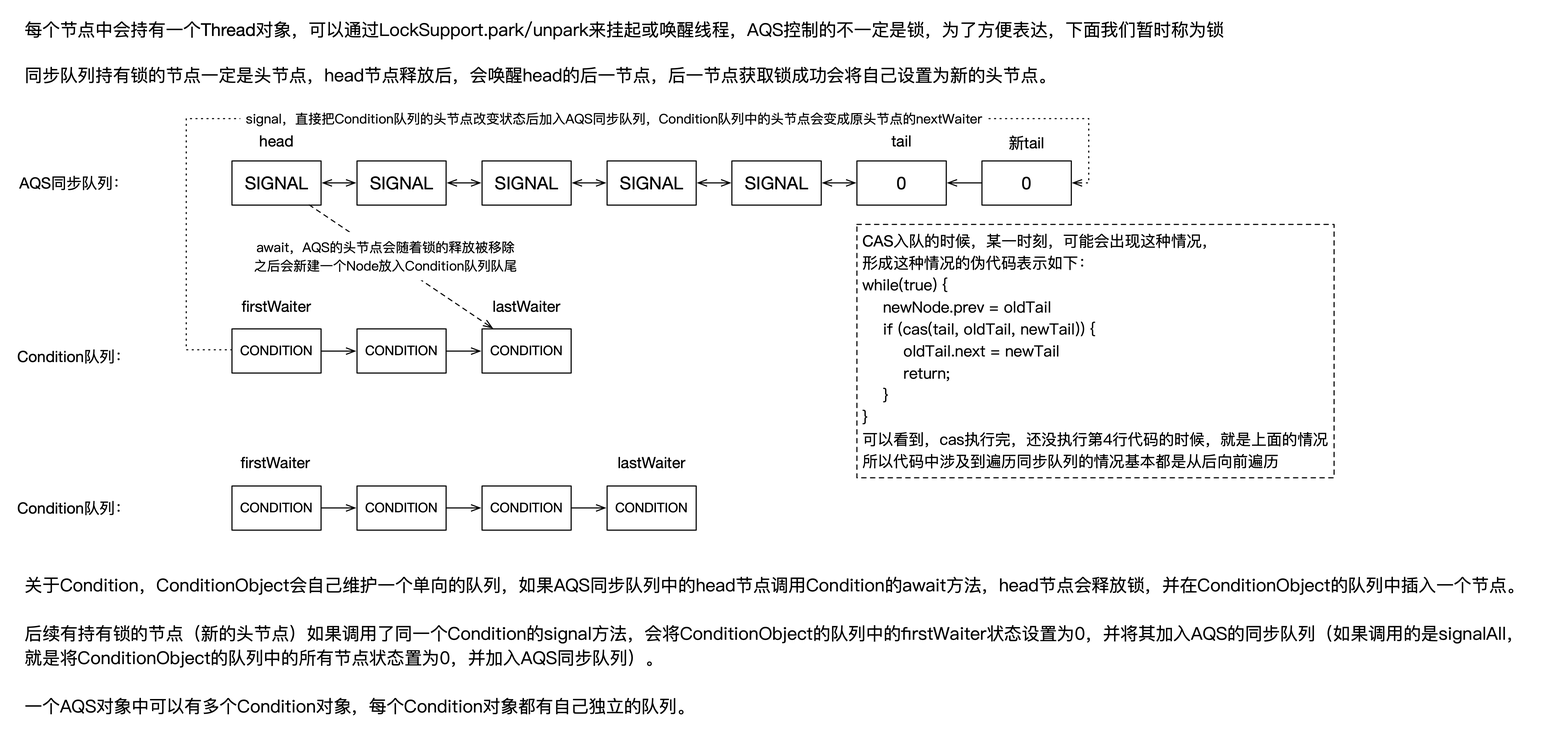
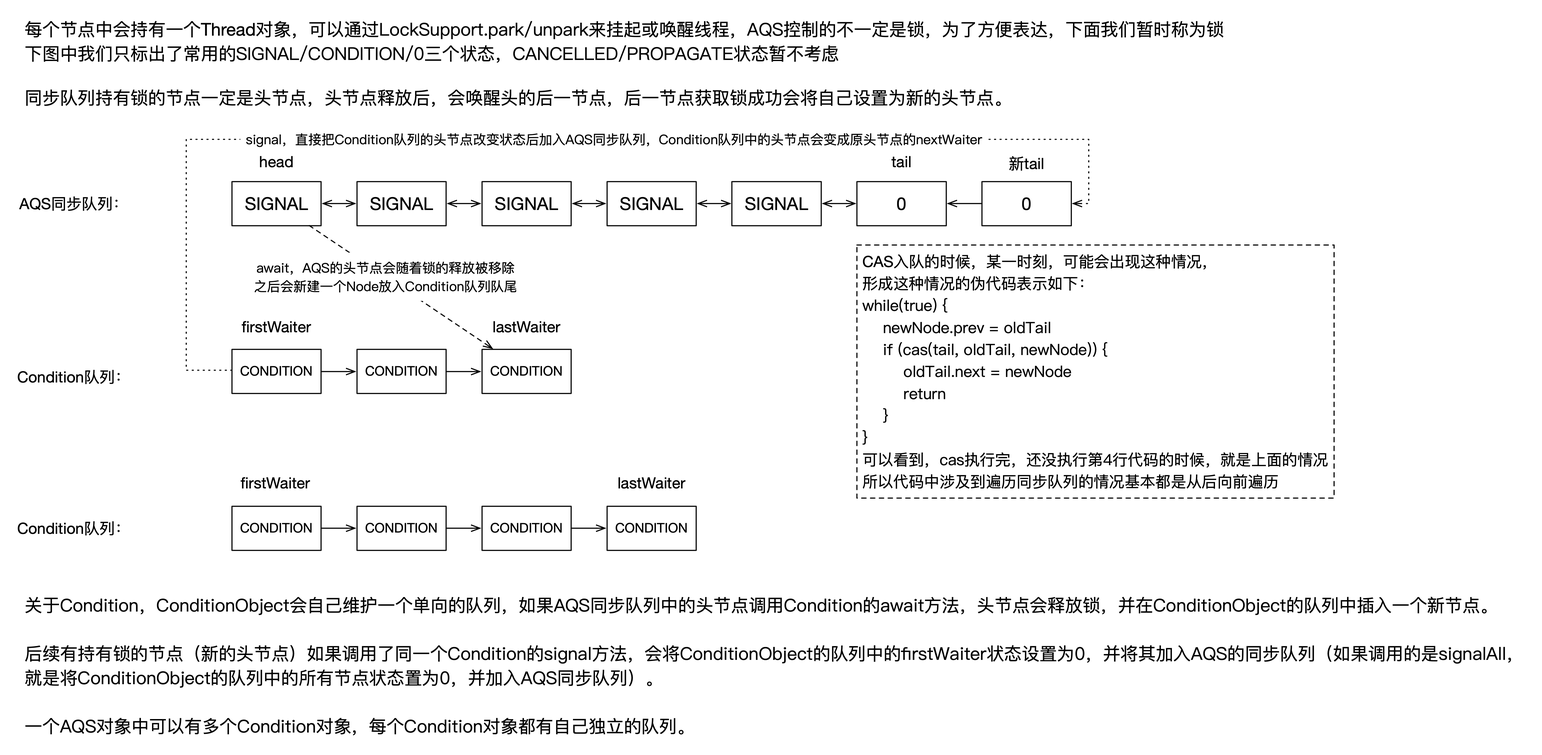
Site updated: 2018-11-01 10:57:12

diff --git a/2018/06/04/JUC中的一些锁以及核心AQS类/index.html b/2018/06/04/JUC中的一些锁以及核心AQS类/index.html
@@ -108,20 +108,20 @@
 
 
 
-  <meta name="description" content="这篇文章主要是从JUC中我们常用的ReentrantLock出发，通过研究ReentrantLock的实现方式，引出了其他一系列的JUC锁以及核心的AQS同步器，本文篇幅会比较长，因为代码细节比较多，后续我会试着画一个总的图来说明整体原理。     文章还在更新中…">
+  <meta name="description" content="这篇文章主要是从JUC中我们常用的ReentrantLock出发，通过研究ReentrantLock的实现方式，引出了其他一系列的JUC锁以及核心的AQS同步器，本文篇幅会比较长，因为代码细节比较多，如果只想简单了解AQS的原理，可以直接跳到AQS的核心原理图。     文章还在更新中…">
 <meta name="keywords" content="Java,并发编程">
 <meta property="og:type" content="article">
 <meta property="og:title" content="JUC中的一些锁以及核心AQS类">
 <meta property="og:url" content="http://yoursite.com/2018/06/04/JUC中的一些锁以及核心AQS类/index.html">
 <meta property="og:site_name" content="d8gmyself">
-<meta property="og:description" content="这篇文章主要是从JUC中我们常用的ReentrantLock出发，通过研究ReentrantLock的实现方式，引出了其他一系列的JUC锁以及核心的AQS同步器，本文篇幅会比较长，因为代码细节比较多，后续我会试着画一个总的图来说明整体原理。     文章还在更新中…">
+<meta property="og:description" content="这篇文章主要是从JUC中我们常用的ReentrantLock出发，通过研究ReentrantLock的实现方式，引出了其他一系列的JUC锁以及核心的AQS同步器，本文篇幅会比较长，因为代码细节比较多，如果只想简单了解AQS的原理，可以直接跳到AQS的核心原理图。     文章还在更新中…">
 <meta property="og:locale" content="zh-CN">
-<meta property="og:image" content="http://yoursite.com/2018/06/04/JUC中的一些锁以及核心AQS类/001.png">
-<meta property="og:updated_time" content="2018-10-31T13:39:50.072Z">
+<meta property="og:image" content="http://yoursite.com/2018/06/04/JUC中的一些锁以及核心AQS类/001.jpg">
+<meta property="og:updated_time" content="2018-11-01T02:56:21.143Z">
 <meta name="twitter:card" content="summary">
 <meta name="twitter:title" content="JUC中的一些锁以及核心AQS类">
-<meta name="twitter:description" content="这篇文章主要是从JUC中我们常用的ReentrantLock出发，通过研究ReentrantLock的实现方式，引出了其他一系列的JUC锁以及核心的AQS同步器，本文篇幅会比较长，因为代码细节比较多，后续我会试着画一个总的图来说明整体原理。     文章还在更新中…">
-<meta name="twitter:image" content="http://yoursite.com/2018/06/04/JUC中的一些锁以及核心AQS类/001.png">
+<meta name="twitter:description" content="这篇文章主要是从JUC中我们常用的ReentrantLock出发，通过研究ReentrantLock的实现方式，引出了其他一系列的JUC锁以及核心的AQS同步器，本文篇幅会比较长，因为代码细节比较多，如果只想简单了解AQS的原理，可以直接跳到AQS的核心原理图。     文章还在更新中…">
+<meta name="twitter:image" content="http://yoursite.com/2018/06/04/JUC中的一些锁以及核心AQS类/001.jpg">
 
 
 
@@ -389,7 +389,7 @@
                 
                   <span class="post-meta-item-text">更新于</span>
                 
-                <time title="修改时间：2018-10-31 21:39:50" itemprop="dateModified" datetime="2018-10-31T21:39:50+08:00">2018-10-31</time>
+                <time title="修改时间：2018-11-01 10:56:21" itemprop="dateModified" datetime="2018-11-01T10:56:21+08:00">2018-11-01</time>
               
             
           </span>
@@ -448,7 +448,7 @@
       
 
       
-        <p>这篇文章主要是从JUC中我们常用的<code>ReentrantLock</code>出发，通过研究<code>ReentrantLock</code>的实现方式，引出了其他一系列的JUC锁以及核心的<strong>AQS</strong>同步器，本文篇幅会比较长，因为代码细节比较多，后续我会试着画一个总的图来说明整体原理。    </p>
+        <p>这篇文章主要是从JUC中我们常用的<code>ReentrantLock</code>出发，通过研究<code>ReentrantLock</code>的实现方式，引出了其他一系列的JUC锁以及核心的<strong>AQS</strong>同步器，本文篇幅会比较长，因为代码细节比较多，如果只想简单了解<strong>AQS</strong>的原理，可以直接跳到<a href="#2-5、AQS的核心原理图"><strong>AQS的核心原理图</strong></a>。    </p>
 <p>文章还在更新中…<br><a id="more"></a><br>前段时间认真研究了一下JUC中的一些锁以及核心的AQS类，在此做个自我总结（主要是为了加深自己的印象吧），写的可能不是特别好。</p>
 <h1 id="1、ReentrantLock"><a href="#1、ReentrantLock" class="headerlink" title="1、ReentrantLock"></a>1、ReentrantLock</h1><p>大部分人接触到的第一个juc中的锁，可能就是这个类了，我们可以通过try-finally语句块调用其lock和unlock来实现加锁和释放锁。    </p>
 <h2 id="1-1、ReentrantLock实现"><a href="#1-1、ReentrantLock实现" class="headerlink" title="1.1、ReentrantLock实现"></a>1.1、ReentrantLock实现</h2><p>查看<code>ReentrantLock</code>的源代码，会发现<code>ReentrantLock</code>的代码很少，核心代码是其一个静态内部抽象类<code>Sync</code>（juc中大部分锁都有一个静态内部抽象类Sync），提供了两个静态内部实现类，<code>FairSync</code>和<code>NonfairSync</code>，分别用于实现公平锁和非公平锁，ReentrantLock的精简代码如下（主要方法，先不考虑序列化）：    </p>
@@ -463,7 +463,7 @@
 <p>首先，我们需要了解AbstractQueuedSynchronizer中的一些基本类和字段。    </p>
 <h2 id="2-1、Node类"><a href="#2-1、Node类" class="headerlink" title="2.1、Node类"></a>2.1、Node类</h2><p><strong>Node</strong>类可以说是<code>AbstractQueuedSynchronizer</code>中的核心类，<code>AbstractQueuedSynchronizer</code>维护了一个FIFO的等待队列，<strong>Node</strong>类就是这个队列的节点，下面是<strong>Node</strong>类中的一些核心概念（数据结构）：    </p>
 <figure class="highlight java"><table><tr><td class="gutter"><pre><span class="line">1</span><br><span class="line">2</span><br><span class="line">3</span><br><span class="line">4</span><br><span class="line">5</span><br><span class="line">6</span><br><span class="line">7</span><br><span class="line">8</span><br><span class="line">9</span><br><span class="line">10</span><br><span class="line">11</span><br><span class="line">12</span><br><span class="line">13</span><br><span class="line">14</span><br><span class="line">15</span><br><span class="line">16</span><br><span class="line">17</span><br><span class="line">18</span><br><span class="line">19</span><br><span class="line">20</span><br><span class="line">21</span><br><span class="line">22</span><br><span class="line">23</span><br><span class="line">24</span><br><span class="line">25</span><br><span class="line">26</span><br><span class="line">27</span><br><span class="line">28</span><br><span class="line">29</span><br><span class="line">30</span><br><span class="line">31</span><br><span class="line">32</span><br><span class="line">33</span><br><span class="line">34</span><br><span class="line">35</span><br><span class="line">36</span><br><span class="line">37</span><br><span class="line">38</span><br><span class="line">39</span><br><span class="line">40</span><br><span class="line">41</span><br><span class="line">42</span><br><span class="line">43</span><br><span class="line">44</span><br><span class="line">45</span><br><span class="line">46</span><br><span class="line">47</span><br><span class="line">48</span><br><span class="line">49</span><br></pre></td><td class="code"><pre><span class="line"><span class="keyword">static</span> <span class="keyword">final</span> <span class="class"><span class="keyword">class</span> <span class="title">Node</span> </span>&#123;</span><br><span class="line">    <span class="comment">/** </span></span><br><span class="line"><span class="comment">     * 共享模式</span></span><br><span class="line"><span class="comment">     */</span></span><br><span class="line">    <span class="keyword">static</span> <span class="keyword">final</span> Node SHARED = <span class="keyword">new</span> Node();</span><br><span class="line">    <span class="comment">/** </span></span><br><span class="line"><span class="comment">     * 独占模式</span></span><br><span class="line"><span class="comment">     */</span></span><br><span class="line">    <span class="keyword">static</span> <span class="keyword">final</span> Node EXCLUSIVE = <span class="keyword">null</span>;</span><br><span class="line"></span><br><span class="line">    <span class="comment">/** </span></span><br><span class="line"><span class="comment">     * 表示节点持有的Thread已经取消执行</span></span><br><span class="line"><span class="comment">     */</span></span><br><span class="line">    <span class="keyword">static</span> <span class="keyword">final</span> <span class="keyword">int</span> CANCELLED =  <span class="number">1</span>;</span><br><span class="line">    <span class="comment">/** </span></span><br><span class="line"><span class="comment">     * 表示节点需要unparking(唤醒）其它节点</span></span><br><span class="line"><span class="comment">     */</span></span><br><span class="line">    <span class="keyword">static</span> <span class="keyword">final</span> <span class="keyword">int</span> SIGNAL    = -<span class="number">1</span>;</span><br><span class="line">    <span class="comment">/** </span></span><br><span class="line"><span class="comment">     * 表示节点持有的Thread在等待某个Condition</span></span><br><span class="line"><span class="comment">     */</span></span><br><span class="line">    <span class="keyword">static</span> <span class="keyword">final</span> <span class="keyword">int</span> CONDITION = -<span class="number">2</span>;</span><br><span class="line">    <span class="comment">/**</span></span><br><span class="line"><span class="comment">     * 表示下一个acquireShared操作无条件传递</span></span><br><span class="line"><span class="comment">     */</span></span><br><span class="line">    <span class="keyword">static</span> <span class="keyword">final</span> <span class="keyword">int</span> PROPAGATE = -<span class="number">3</span>;</span><br><span class="line"></span><br><span class="line">    <span class="comment">/**</span></span><br><span class="line"><span class="comment">     * 节点状态</span></span><br><span class="line"><span class="comment">     */</span></span><br><span class="line">    <span class="keyword">volatile</span> <span class="keyword">int</span> waitStatus;</span><br><span class="line">    <span class="comment">/**</span></span><br><span class="line"><span class="comment">     * 上一节点</span></span><br><span class="line"><span class="comment">     */</span></span><br><span class="line">    <span class="keyword">volatile</span> Node prev;</span><br><span class="line">    <span class="comment">/**</span></span><br><span class="line"><span class="comment">     * 下一节点</span></span><br><span class="line"><span class="comment">     */</span></span><br><span class="line">    <span class="keyword">volatile</span> Node next;</span><br><span class="line">    <span class="comment">/**</span></span><br><span class="line"><span class="comment">     * 节点持有的线程</span></span><br><span class="line"><span class="comment">     */</span></span><br><span class="line">    <span class="keyword">volatile</span> Thread thread;</span><br><span class="line">    <span class="comment">/**</span></span><br><span class="line"><span class="comment">     * 1、用于串连Condition状态节点，形成单向链表，在ConditionObject中有用</span></span><br><span class="line"><span class="comment">     * 2、指向SHARED，表示当前节点是共享节点</span></span><br><span class="line"><span class="comment">     */</span></span><br><span class="line">    Node nextWaiter;</span><br><span class="line">&#125;</span><br></pre></td></tr></table></figure>
-<p>上面代码中，有很大一部分是定义常量，组成<strong>Node</strong>数据结构的只有<code>waitStatue</code>、<code>prev</code>、<code>next</code>、<code>thread</code>、<code>nextWaiter</code>。    </p>
+<p>上面代码中，有很大一部分是定义常量，组成<strong>Node</strong>数据结构的只有<code>waitStatus</code>、<code>prev</code>、<code>next</code>、<code>thread</code>、<code>nextWaiter</code>，<code>waitStatus</code>用来表示节点当前状态，<code>prev</code>、<code>next</code>用来构成<strong>AQS</strong>同步队列，<strong>AQS</strong>同步队列是一个<strong>双向链表</strong>，<code>nextWaiter</code>有两个作用，一个是指向<code>SHARED</code>，表示当前节点是共享模式，还有一个作用就是构成<strong>Condition</strong>队列，<strong>Condition</strong>队列是一个<strong>单向链表</strong>。    </p>
 <h2 id="2-2、AbstractQueuedSynchronizer类"><a href="#2-2、AbstractQueuedSynchronizer类" class="headerlink" title="2.2、AbstractQueuedSynchronizer类"></a>2.2、AbstractQueuedSynchronizer类</h2><p><strong>AbstractQueuedSynchronizer</strong>类中的一些主要字段如下：</p>
 <figure class="highlight java"><table><tr><td class="gutter"><pre><span class="line">1</span><br><span class="line">2</span><br><span class="line">3</span><br><span class="line">4</span><br><span class="line">5</span><br><span class="line">6</span><br><span class="line">7</span><br><span class="line">8</span><br><span class="line">9</span><br><span class="line">10</span><br><span class="line">11</span><br><span class="line">12</span><br><span class="line">13</span><br><span class="line">14</span><br></pre></td><td class="code"><pre><span class="line"><span class="comment">/**</span></span><br><span class="line"><span class="comment"> * 等待队列头</span></span><br><span class="line"><span class="comment"> */</span></span><br><span class="line"><span class="keyword">private</span> <span class="keyword">transient</span> <span class="keyword">volatile</span> Node head;</span><br><span class="line"></span><br><span class="line"><span class="comment">/**</span></span><br><span class="line"><span class="comment"> * 等待队列尾</span></span><br><span class="line"><span class="comment"> */</span></span><br><span class="line"><span class="keyword">private</span> <span class="keyword">transient</span> <span class="keyword">volatile</span> Node tail;</span><br><span class="line"></span><br><span class="line"><span class="comment">/**</span></span><br><span class="line"><span class="comment"> * 同步状态</span></span><br><span class="line"><span class="comment"> */</span></span><br><span class="line"><span class="keyword">private</span> <span class="keyword">volatile</span> <span class="keyword">int</span> state;</span><br></pre></td></tr></table></figure>
 <h2 id="2-3、ConditionObject"><a href="#2-3、ConditionObject" class="headerlink" title="2.3、ConditionObject"></a>2.3、ConditionObject</h2><p><strong>Condition</strong>是一个接口，其作用类似<code>Object</code>中的<code>wait</code>/<code>notify</code>，接口定义了类似的<code>await</code>/<code>signal</code>方法。    </p>
@@ -538,7 +538,8 @@
 <h3 id="2-4-2-共享模式（SHARED）"><a href="#2-4-2-共享模式（SHARED）" class="headerlink" title="2.4.2 共享模式（SHARED）"></a>2.4.2 共享模式（SHARED）</h3><p>AQS中的共享模式，表示<strong>资源可以被多个线程共享</strong>，典型的比如JUC中的<code>ReentrantReadWriteLock</code>，多个线程可以同时持有读锁，<code>ReentrantReadWriteLock</code>的源码解析会放到后面。    </p>
 <p>共享模式主要需要实现<code>tryAcquireShared</code>/<code>tryReleaseShared</code>方法，主要机制解析如下：    </p>
 <h4 id="2-4-2-1-tryAcquireShared方法"><a href="#2-4-2-1-tryAcquireShared方法" class="headerlink" title="2.4.2.1 tryAcquireShared方法"></a>2.4.2.1 tryAcquireShared方法</h4><p>该方法需要我们自己实现，还是通过控制<code>state</code>来决定是否可以获得共享锁。    </p>
-<h2 id="2-5、AQS的核心结构图"><a href="#2-5、AQS的核心结构图" class="headerlink" title="2.5、AQS的核心结构图"></a>2.5、AQS的核心结构图</h2><p>下面是AQS的一个核心结构图，只画出了主要的流程<br><img src="/2018/06/04/JUC中的一些锁以及核心AQS类/001.png" alt="核心原理图"></p>
+<h2 id="2-5、AQS的核心原理图"><a href="#2-5、AQS的核心原理图" class="headerlink" title="2.5、AQS的核心原理图"></a>2.5、AQS的核心原理图</h2><p>下面是AQS的一个核心原理图，只画出了主要的流程，其核心思想还是一个CLH队列锁<br><img src="/2018/06/04/JUC中的一些锁以及核心AQS类/001.jpg" alt="核心原理图"><a href="001.jpg" target="_blank">点击查看大图</a>    </p>
+<p>上图中只画出了AQS的核心原理，没有体现太多的细节，比如取消的节点怎么处理，怎么通过CAS保证并发时的正确性等等，这些细节都需要去仔细阅读代码，认真思考。    </p>
 <h1 id="3、再看ReentrantLock"><a href="#3、再看ReentrantLock" class="headerlink" title="3、再看ReentrantLock"></a>3、再看ReentrantLock</h1><p>公平和非公平实现</p>
 <h1 id="4、Semaphore"><a href="#4、Semaphore" class="headerlink" title="4、Semaphore"></a>4、Semaphore</h1><p>Semaphore如何通过ASQ实现</p>
 <h1 id="5、ReentrantReadWriteLock"><a href="#5、ReentrantReadWriteLock" class="headerlink" title="5、ReentrantReadWriteLock"></a>5、ReentrantReadWriteLock</h1><p>ReentrantReadWriteLock如何通过AQS实现</p>
@@ -788,7 +789,7 @@
             
 
             
-              <div class="post-toc-content"><ol class="nav"><li class="nav-item nav-level-1"><a class="nav-link" href="#1、ReentrantLock"><span class="nav-text">1、ReentrantLock</span></a><ol class="nav-child"><li class="nav-item nav-level-2"><a class="nav-link" href="#1-1、ReentrantLock实现"><span class="nav-text">1.1、ReentrantLock实现</span></a></li></ol></li><li class="nav-item nav-level-1"><a class="nav-link" href="#2、AbstractQueuedSynchronizer（简称AQS）解析"><span class="nav-text">2、AbstractQueuedSynchronizer（简称AQS）解析</span></a><ol class="nav-child"><li class="nav-item nav-level-2"><a class="nav-link" href="#2-1、Node类"><span class="nav-text">2.1、Node类</span></a></li><li class="nav-item nav-level-2"><a class="nav-link" href="#2-2、AbstractQueuedSynchronizer类"><span class="nav-text">2.2、AbstractQueuedSynchronizer类</span></a></li><li class="nav-item nav-level-2"><a class="nav-link" href="#2-3、ConditionObject"><span class="nav-text">2.3、ConditionObject</span></a></li><li class="nav-item nav-level-2"><a class="nav-link" href="#2-4、常用方法源码解析"><span class="nav-text">2.4、常用方法源码解析</span></a><ol class="nav-child"><li class="nav-item nav-level-3"><a class="nav-link" href="#2-4-1-独占（EXCLUSIVE）模式"><span class="nav-text">2.4.1 独占（EXCLUSIVE）模式</span></a><ol class="nav-child"><li class="nav-item nav-level-4"><a class="nav-link" href="#2-4-1-1-tryAcquire方法"><span class="nav-text">2.4.1.1 tryAcquire方法</span></a></li><li class="nav-item nav-level-4"><a class="nav-link" href="#2-4-1-2-tryRelease方法"><span class="nav-text">2.4.1.2 tryRelease方法</span></a></li><li class="nav-item nav-level-4"><a class="nav-link" href="#2-4-1-3-acquire方法"><span class="nav-text">2.4.1.3 acquire方法</span></a></li><li class="nav-item nav-level-4"><a class="nav-link" href="#2-4-1-4-release方法"><span class="nav-text">2.4.1.4 release方法</span></a></li><li class="nav-item nav-level-4"><a class="nav-link" href="#2-4-1-5-响应中断的doAcquireInterruptibly以及cancelAcquire"><span class="nav-text">2.4.1.5 响应中断的doAcquireInterruptibly以及cancelAcquire</span></a></li><li class="nav-item nav-level-4"><a class="nav-link" href="#2-4-1-6-ConditionObject"><span class="nav-text">2.4.1.6 ConditionObject</span></a><ol class="nav-child"><li class="nav-item nav-level-5"><a class="nav-link" href="#2-4-1-6-1-await方法"><span class="nav-text">2.4.1.6.1 await方法</span></a></li><li class="nav-item nav-level-5"><a class="nav-link" href="#2-4-1-6-2-signal-signalAll方法"><span class="nav-text">2.4.1.6.2 signal/signalAll方法</span></a></li><li class="nav-item nav-level-5"><a class="nav-link" href="#2-4-1-6-3-含timeout的await"><span class="nav-text">2.4.1.6.3 含timeout的await</span></a></li></ol></li></ol></li><li class="nav-item nav-level-3"><a class="nav-link" href="#2-4-2-共享模式（SHARED）"><span class="nav-text">2.4.2 共享模式（SHARED）</span></a><ol class="nav-child"><li class="nav-item nav-level-4"><a class="nav-link" href="#2-4-2-1-tryAcquireShared方法"><span class="nav-text">2.4.2.1 tryAcquireShared方法</span></a></li></ol></li></ol></li><li class="nav-item nav-level-2"><a class="nav-link" href="#2-5、AQS的核心结构图"><span class="nav-text">2.5、AQS的核心结构图</span></a></li></ol></li><li class="nav-item nav-level-1"><a class="nav-link" href="#3、再看ReentrantLock"><span class="nav-text">3、再看ReentrantLock</span></a></li><li class="nav-item nav-level-1"><a class="nav-link" href="#4、Semaphore"><span class="nav-text">4、Semaphore</span></a></li><li class="nav-item nav-level-1"><a class="nav-link" href="#5、ReentrantReadWriteLock"><span class="nav-text">5、ReentrantReadWriteLock</span></a></li><li class="nav-item nav-level-1"><a class="nav-link" href="#6、一些思考（不定时更新）"><span class="nav-text">6、一些思考（不定时更新）</span></a><ol class="nav-child"><li class="nav-item nav-level-2"><a class="nav-link" href="#6-1、怎么保证lock-unlock之间的操作的线程可见性"><span class="nav-text">6.1、怎么保证lock-unlock之间的操作的线程可见性</span></a></li></ol></li><li class="nav-item nav-level-1"><a class="nav-link" href="#7、结语"><span class="nav-text">7、结语</span></a></li></ol></div>
+              <div class="post-toc-content"><ol class="nav"><li class="nav-item nav-level-1"><a class="nav-link" href="#1、ReentrantLock"><span class="nav-text">1、ReentrantLock</span></a><ol class="nav-child"><li class="nav-item nav-level-2"><a class="nav-link" href="#1-1、ReentrantLock实现"><span class="nav-text">1.1、ReentrantLock实现</span></a></li></ol></li><li class="nav-item nav-level-1"><a class="nav-link" href="#2、AbstractQueuedSynchronizer（简称AQS）解析"><span class="nav-text">2、AbstractQueuedSynchronizer（简称AQS）解析</span></a><ol class="nav-child"><li class="nav-item nav-level-2"><a class="nav-link" href="#2-1、Node类"><span class="nav-text">2.1、Node类</span></a></li><li class="nav-item nav-level-2"><a class="nav-link" href="#2-2、AbstractQueuedSynchronizer类"><span class="nav-text">2.2、AbstractQueuedSynchronizer类</span></a></li><li class="nav-item nav-level-2"><a class="nav-link" href="#2-3、ConditionObject"><span class="nav-text">2.3、ConditionObject</span></a></li><li class="nav-item nav-level-2"><a class="nav-link" href="#2-4、常用方法源码解析"><span class="nav-text">2.4、常用方法源码解析</span></a><ol class="nav-child"><li class="nav-item nav-level-3"><a class="nav-link" href="#2-4-1-独占（EXCLUSIVE）模式"><span class="nav-text">2.4.1 独占（EXCLUSIVE）模式</span></a><ol class="nav-child"><li class="nav-item nav-level-4"><a class="nav-link" href="#2-4-1-1-tryAcquire方法"><span class="nav-text">2.4.1.1 tryAcquire方法</span></a></li><li class="nav-item nav-level-4"><a class="nav-link" href="#2-4-1-2-tryRelease方法"><span class="nav-text">2.4.1.2 tryRelease方法</span></a></li><li class="nav-item nav-level-4"><a class="nav-link" href="#2-4-1-3-acquire方法"><span class="nav-text">2.4.1.3 acquire方法</span></a></li><li class="nav-item nav-level-4"><a class="nav-link" href="#2-4-1-4-release方法"><span class="nav-text">2.4.1.4 release方法</span></a></li><li class="nav-item nav-level-4"><a class="nav-link" href="#2-4-1-5-响应中断的doAcquireInterruptibly以及cancelAcquire"><span class="nav-text">2.4.1.5 响应中断的doAcquireInterruptibly以及cancelAcquire</span></a></li><li class="nav-item nav-level-4"><a class="nav-link" href="#2-4-1-6-ConditionObject"><span class="nav-text">2.4.1.6 ConditionObject</span></a><ol class="nav-child"><li class="nav-item nav-level-5"><a class="nav-link" href="#2-4-1-6-1-await方法"><span class="nav-text">2.4.1.6.1 await方法</span></a></li><li class="nav-item nav-level-5"><a class="nav-link" href="#2-4-1-6-2-signal-signalAll方法"><span class="nav-text">2.4.1.6.2 signal/signalAll方法</span></a></li><li class="nav-item nav-level-5"><a class="nav-link" href="#2-4-1-6-3-含timeout的await"><span class="nav-text">2.4.1.6.3 含timeout的await</span></a></li></ol></li></ol></li><li class="nav-item nav-level-3"><a class="nav-link" href="#2-4-2-共享模式（SHARED）"><span class="nav-text">2.4.2 共享模式（SHARED）</span></a><ol class="nav-child"><li class="nav-item nav-level-4"><a class="nav-link" href="#2-4-2-1-tryAcquireShared方法"><span class="nav-text">2.4.2.1 tryAcquireShared方法</span></a></li></ol></li></ol></li><li class="nav-item nav-level-2"><a class="nav-link" href="#2-5、AQS的核心原理图"><span class="nav-text">2.5、AQS的核心原理图</span></a></li></ol></li><li class="nav-item nav-level-1"><a class="nav-link" href="#3、再看ReentrantLock"><span class="nav-text">3、再看ReentrantLock</span></a></li><li class="nav-item nav-level-1"><a class="nav-link" href="#4、Semaphore"><span class="nav-text">4、Semaphore</span></a></li><li class="nav-item nav-level-1"><a class="nav-link" href="#5、ReentrantReadWriteLock"><span class="nav-text">5、ReentrantReadWriteLock</span></a></li><li class="nav-item nav-level-1"><a class="nav-link" href="#6、一些思考（不定时更新）"><span class="nav-text">6、一些思考（不定时更新）</span></a><ol class="nav-child"><li class="nav-item nav-level-2"><a class="nav-link" href="#6-1、怎么保证lock-unlock之间的操作的线程可见性"><span class="nav-text">6.1、怎么保证lock-unlock之间的操作的线程可见性</span></a></li></ol></li><li class="nav-item nav-level-1"><a class="nav-link" href="#7、结语"><span class="nav-text">7、结语</span></a></li></ol></div>
             
 
           </div>

diff --git a/index.html b/index.html
@@ -740,7 +740,7 @@
                 
                   <span class="post-meta-item-text">更新于</span>
                 
-                <time title="修改时间：2018-10-31 21:39:50" itemprop="dateModified" datetime="2018-10-31T21:39:50+08:00">2018-10-31</time>
+                <time title="修改时间：2018-11-01 10:56:21" itemprop="dateModified" datetime="2018-11-01T10:56:21+08:00">2018-11-01</time>
               
             
           </span>
@@ -792,7 +792,7 @@
 
       
         
-          <p>这篇文章主要是从JUC中我们常用的<code>ReentrantLock</code>出发，通过研究<code>ReentrantLock</code>的实现方式，引出了其他一系列的JUC锁以及核心的<strong>AQS</strong>同步器，本文篇幅会比较长，因为代码细节比较多，后续我会试着画一个总的图来说明整体原理。    </p>
+          <p>这篇文章主要是从JUC中我们常用的<code>ReentrantLock</code>出发，通过研究<code>ReentrantLock</code>的实现方式，引出了其他一系列的JUC锁以及核心的<strong>AQS</strong>同步器，本文篇幅会比较长，因为代码细节比较多，如果只想简单了解<strong>AQS</strong>的原理，可以直接跳到<a href="#2-5、AQS的核心原理图"><strong>AQS的核心原理图</strong></a>。    </p>
 <p>文章还在更新中…<br></p>
           <!--noindex-->
           <div class="post-button text-center">

diff --git a/2018/10/12/Hystrix简单监控/index.html b/2018/10/12/Hystrix简单监控/index.html
@@ -109,7 +109,7 @@
 
 
   <meta name="description" content="前段时间产品找到我，想知道线上某个使用Hystrix的接口的熔断率是多少，因为经常有客服反馈问题，然后…我只能乖乖去扒日志，有日志的还好，如果没有明确日志…     所以，当时就在想，有没有类似的监控可以用，可以一目了然的知道各个系统中Hystrix运行的各项数值，比如访问了多少次，成功多少次，fallback了多少次，fallback成功多少次，失败多少次等等。">
-<meta name="keywords" content="Java,Hystrix,监控">
+<meta name="keywords" content="Hystrix,Java,监控">
 <meta property="og:type" content="article">
 <meta property="og:title" content="Hystrix简单监控">
 <meta property="og:url" content="http://yoursite.com/2018/10/12/Hystrix简单监控/index.html">
@@ -488,9 +488,9 @@
       
         <div class="post-tags">
           
-            <a href="/tags/Java/" rel="tag"># Java</a>
-          
             <a href="/tags/Hystrix/" rel="tag"># Hystrix</a>
+          
+            <a href="/tags/Java/" rel="tag"># Java</a>
           
             <a href="/tags/监控/" rel="tag"># 监控</a>
           

diff --git a/css/main.css b/css/main.css
@@ -1837,7 +1837,7 @@ img:hover {
   width: 4px;
   height: 4px;
   border-radius: 50%;
-  background: #4effff;
+  background: #d7f7fc;
 }
 .links-of-blogroll {
   font-size: 13px;
